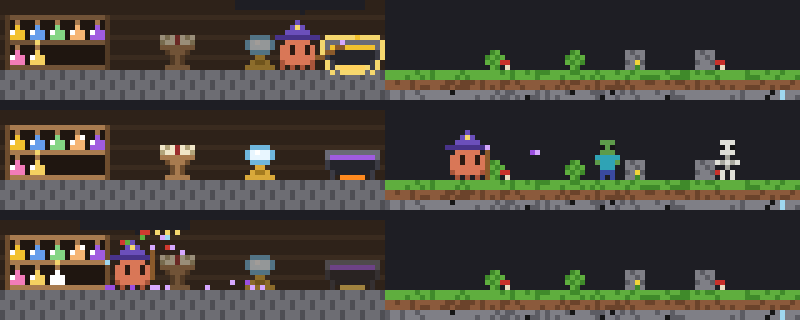
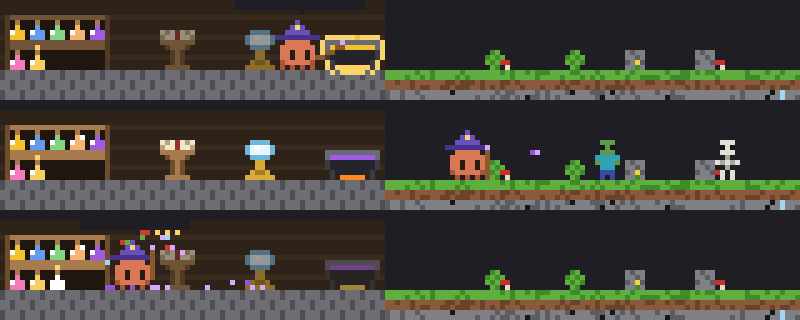
fix: dört göz — gözler, kitap, küre ve şişeler terminal satır sınırına bölünmesin
Satırlar arasında boşluk olan terminallerde 2 piksellik bir detay hücre sınırına denk gelince
ikiye bölünüyordu (Clawd'un iki gözü dört nokta görünüyordu). Gözler bir piksel aşağı alındı;
kürsü, küre ve raflar çift satırdan başlıyor.

diff --git a/plugin/hooks/sprite.js b/plugin/hooks/sprite.js
@@ -30,7 +30,9 @@ const KURSU = { P: RENK.sayfa, p: RENK.sayfaKoyu, k: RENK.kitap, W: RENK.tahta, 
 
 export const SPRITE = {
   // Clawd sağa bakar; sola bakarken aynalanır. Gövde 5 satır + ayak 1 satır.
-  clawd: P(['.OOOOO.', 'OOKOOKO', 'OOKOOKO', 'OOOOOOO', 'oOOOOOo'], TURUNCU),
+  // Gözler 2. ve 3. satırda: gövde çift satırdan başladığı için ikisi aynı terminal hücresine düşer;
+  // hücre sınırına denk gelseler satır arası boşluk her gözü ikiye böler (dört göz görünür).
+  clawd: P(['.OOOOO.', 'OOOOOOO', 'OOKOOKO', 'OOKOOKO', 'oOOOOOo'], TURUNCU),
   ayakA: P(['o.o.o.o'], TURUNCU),
   ayakB: P(['.o.o.o.'], TURUNCU),
   sapka: P(['....S....', '...SYS...', '..SSSSS..', 'sssssssss'], { S: RENK.mor, s: RENK.morKoyu, Y: RENK.yildiz }),
@@ -41,10 +43,11 @@ export const SPRITE = {
   // Kazan: açık ağız, renkli sıvı (L), bacakların arasında titreyen ateş (F)
   kazan: P(['aaaaaaaaaaa', 'aLLLLLLLLLa', 'kKKKKKKKKKk', 'kKKKKKKKKKk', '.kKKKKKKKk.', '.k.FFFFF.k.'], { a: RENK.kazanAgiz, k: RENK.kazan, K: RENK.kazanKoyu }),
   // Kürsü: ahşap ayak üstünde açık kitap; beyaz sayfalarda yazı satırları, ortada kırmızı sırt
-  kursu: P(['PpPkPpP', 'pPPkPPp', 'WWWWWWW', '.wWWWw.', '..wWw..', '..wWw..', '.WWWWW.'], KURSU),
-  kursu2: P(['pPpkpPp', 'PpPkPpP', 'WWWWWWW', '.wWWWw.', '..wWw..', '..wWw..', '.WWWWW.'], KURSU),
+  // Yükseklik çift: tepesi çift satıra düşer, kitap tek terminal hücresinde kalır
+  kursu: P(['PpPkPpP', 'pPPkPPp', 'WWWWWWW', '.wWWWw.', '..wWw..', '..wWw..', '..wWw..', '.WWWWW.'], KURSU),
+  kursu2: P(['pPpkpPp', 'PpPkPpP', 'WWWWWWW', '.wWWWw.', '..wWw..', '..wWw..', '..wWw..', '.WWWWW.'], KURSU),
   // Küre: altın ayak üstünde cam; içi (C) değişir, beyaz parlama noktası
-  kure: P(['.cccc.', 'cChCCc', 'cCCCCc', '.cccc.', '..GG..', '.GggG.', 'GGGGGG'], { c: RENK.kureKenar, h: RENK.beyaz, G: RENK.altin, g: RENK.altinKoyu }),
+  kure: P(['.cccc.', 'cChCCc', 'cCCCCc', '.cccc.', '..GG..', '..GG..', '.GggG.', 'GGGGGG'], { c: RENK.kureKenar, h: RENK.beyaz, G: RENK.altin, g: RENK.altinKoyu }),
   // Şişe: mantar, boyun, camda parıltı pikseli
   sise: P(['.q.', '.L.', 'HLL', 'LLL'], { q: RENK.tahta, H: RENK.beyaz }),
   tnt: P(['RrRr', 'BBBB', 'RrRr', 'rRrR'], { R: RENK.tnt, r: RENK.tntKoyu, B: RENK.beyaz }),

diff --git a/plugin/tests/sprite.test.ts b/plugin/tests/sprite.test.ts
@@ -33,11 +33,24 @@ test('beyazPalet tüm palet harflerini beyaz yapar', async () => {
 })
 
 test('lab eşyaları tanınır boyutta', async () => {
-  expect([SPRITE.kursu.gen, SPRITE.kursu.yuk]).toEqual([7, 7])
-  expect([SPRITE.kursu2.gen, SPRITE.kursu2.yuk]).toEqual([7, 7])
-  expect([SPRITE.kure.gen, SPRITE.kure.yuk]).toEqual([6, 7])
+  expect([SPRITE.kursu.gen, SPRITE.kursu.yuk]).toEqual([7, 8])
+  expect([SPRITE.kursu2.gen, SPRITE.kursu2.yuk]).toEqual([7, 8])
+  expect([SPRITE.kure.gen, SPRITE.kure.yuk]).toEqual([6, 8])
   expect([SPRITE.kazan.gen, SPRITE.kazan.yuk]).toEqual([11, 6])
   expect([SPRITE.sise.gen, SPRITE.sise.yuk]).toEqual([3, 4])
   expect(SPRITE.kazan.satirlar.join('').includes('F')).toBe(true)
   expect(OZEL_HARFLER.has('F')).toBe(true)
+})
+
+test('Clawd\'un gözleri tek bir terminal satırına sığar (satır arası boşluk gözü bölmesin)', async () => {
+  // Gövde YER - 6'dan başlar (çift satır); 2 piksellik göz çift + tek satır çiftinde durmalı
+  const gozSatirlari = SPRITE.clawd.satirlar.map((s: string, i: number) => (s.includes('K') ? i : -1)).filter((i: number) => i >= 0)
+  expect(gozSatirlari.length).toBe(2)
+  expect((14 - 6 + gozSatirlari[0]) % 2).toBe(0)
+  expect(gozSatirlari[1]).toBe(gozSatirlari[0] + 1)
+})
+
+test('zemine oturan lab eşyaları çift satırdan başlar', async () => {
+  // Zemin y = 14; yüksekliği çift olan eşyanın tepesi çift satıra düşer
+  for (const ad of ['kursu', 'kursu2', 'kure', 'kazan']) expect([ad, SPRITE[ad].yuk % 2]).toEqual([ad, 0])
 })

diff --git a/plugin/hooks/cizim.js b/plugin/hooks/cizim.js
@@ -116,7 +116,7 @@ function dolapCiz(t, s, lab, sonuk, hale) {
     }
   }
   dikdortgen(t, x0, 3, gen, 11, RENK.duvarKoyu)
-  for (const y of [3, 8, 13]) dikdortgen(t, x0, y, gen, 1, ahsap(RENK.tahta))
+  for (const y of [3, 8, 9]) dikdortgen(t, x0, y, gen, 1, ahsap(RENK.tahta))
   dikdortgen(t, x0, 3, 1, 11, ahsap(RENK.tahtaKoyu))
   dikdortgen(t, x0 + gen - 1, 3, 1, 11, ahsap(RENK.tahtaKoyu))
   const siseler = gorunenSiseler(s.dolap)
@@ -145,12 +145,12 @@ function labCiz(t, s, lab) {
     spriteCiz(t, sp, x, y, false, ozel, sonukMu(ad) ? sonuk : null)
   }
   dolapCiz(t, s, lab, sonukMu('dolap'), aktif === 'dolap' && hale)
-  if (lab.kursuX !== null) esya('kursu', s.mod === 'oku' && s.kare % 12 < 6 ? SPRITE.kursu2 : SPRITE.kursu, lab.kursuX, YER - 7, {})
+  if (lab.kursuX !== null) esya('kursu', s.mod === 'oku' && s.kare % 12 < 6 ? SPRITE.kursu2 : SPRITE.kursu, lab.kursuX, YER - SPRITE.kursu.yuk, {})
   if (lab.kureX !== null) {
     const ic = s.mod === 'web' ? [RENK.beyaz, RENK.kureIc, RENK.portalAcik][Math.floor(s.kare / 3) % 3] : RENK.kureIc
-    esya('kure', SPRITE.kure, lab.kureX, YER - 7, { C: ic })
+    esya('kure', SPRITE.kure, lab.kureX, YER - SPRITE.kure.yuk, { C: ic })
   }
-  esya('kazan', SPRITE.kazan, lab.kazanX, YER - 6, { L: s.kazanRengi ?? RENK.iksir, F: s.kare % 4 < 2 ? RENK.alev : RENK.kivilcim })
+  esya('kazan', SPRITE.kazan, lab.kazanX, YER - SPRITE.kazan.yuk, { L: s.kazanRengi ?? RENK.iksir, F: s.kare % 4 < 2 ? RENK.alev : RENK.kivilcim })
 }
 
 // ---- Varlıklar ----

diff --git a/plugin/tests/lab.test.ts b/plugin/tests/lab.test.ts
@@ -60,7 +60,7 @@ test('dolap 24 şişe saklar, raflar dolunca en eski raf kayar', async () => {
   expect(gorunenSiseler(siseler(11))[0]).toEqual(sise(5))
   const lab = labYerlesimi(120)
   expect(sisePikseli(lab, 0)).toEqual({ x: 2, y: 4 })
-  expect(sisePikseli(lab, 6)).toEqual({ x: 6, y: 9 })
+  expect(sisePikseli(lab, 6)).toEqual({ x: 6, y: 10 })
 })
 
 test('dolapOku bozuk veriyi ayıklar', async () => {
@@ -71,4 +71,9 @@ test('dolapOku bozuk veriyi ayıklar', async () => {
   expect(dolapOku(ham)).toEqual({ sayi: 2, siseler: [sise(), sise(7)] })
   expect(dolapOku({ sayi: 40, siseler: siseler(30) }).siseler.length).toBe(24)
   expect(dolapKaydi(40, siseler(30))).toEqual({ sayi: 40, siseler: siseler(30).slice(-24) })
+})
+
+test('şişeler çift satırdan başlar: terminal satır boşluğu şişeyi bölmez', async () => {
+  const lab = labYerlesimi(120)
+  for (let i = 0; i < 10; i++) expect(sisePikseli(lab, i).y % 2).toBe(0)
 })

diff --git a/plugin/tests/cizim.test.ts b/plugin/tests/cizim.test.ts
@@ -104,11 +104,11 @@ test('kullanılan eşya parlar, diğerleri sönükleşir', async () => {
   const lab = labYerlesimi(120)
   const oku = { ...olayUygula(yeniSahne(120), { tip: 'eylem', tur: 'oku', metin: 'x' }), kare: 0 }
   const h = sahneHucreleri(oku, 120, 10)
-  expect(piksel(h, 120, 10, lab.kursuX + 1, YER - 8)).toBe(RENK.hale)
+  expect(piksel(h, 120, 10, lab.kursuX + 1, YER - 9)).toBe(RENK.hale)
   expect(piksel(h, 120, 10, lab.kazanX, YER - 6) === RENK.kazanAgiz).toBe(false)
   const bos = sahneHucreleri({ ...yeniSahne(120), kare: 0 }, 120, 10)
   expect(piksel(bos, 120, 10, lab.kazanX, YER - 6)).toBe(RENK.kazanAgiz)
-  expect(piksel(bos, 120, 10, lab.kursuX + 1, YER - 8) === RENK.hale).toBe(false)
+  expect(piksel(bos, 120, 10, lab.kursuX + 1, YER - 9) === RENK.hale).toBe(false)
 })
 
 test('kazanın altında ateş yanar', async () => {

diff --git a/plugin/hooks/lab.js b/plugin/hooks/lab.js
@@ -61,11 +61,12 @@ export function gorunenSiseler(dolap) {
   return dolap.slice(atla)
 }
 
-// Dolaptaki i. şişenin sol üst pikseli; şişe 3×4, aralarında 1 piksel; raf tahtaları y = 3, 8, 13
+// Dolaptaki i. şişenin sol üst pikseli; şişe 3×4, aralarında 1 piksel. Raflar y = 4 ve 10'dan başlar
+// (çift satır: terminal satır boşluğu şişeyi bölmez); aradaki tahta y = 8–9, alt raf zemine oturur
 export function sisePikseli(lab, i) {
   const raf = Math.floor(i / RAF_KAPASITE)
   const sira = i % RAF_KAPASITE
-  return { x: lab.dolapX + 1 + sira * 4, y: 4 + raf * 5 }
+  return { x: lab.dolapX + 1 + sira * 4, y: 4 + raf * 6 }
 }
 
 function gecerliSise(s) {

diff --git a/plugin/hooks/sahne.js b/plugin/hooks/sahne.js
@@ -256,7 +256,7 @@ function okuAdim(s) {
   if (s.modKare % 4 !== 0) return s
   const lab = labYerlesimi(s.genislik)
   // Dar bantta kürsü yok: dolaptaki tariflere bakar
-  const [x, y] = lab.kursuX === null ? [lab.dolapX + 10, YER - 9] : [lab.kursuX + 3, YER - 8]
+  const [x, y] = lab.kursuX === null ? [lab.dolapX + 10, YER - 9] : [lab.kursuX + 3, YER - 9]
   return { ...s, parca: yukselen(s.parca, s.kare, x, y, RENK.sayfa) }
 }
 
